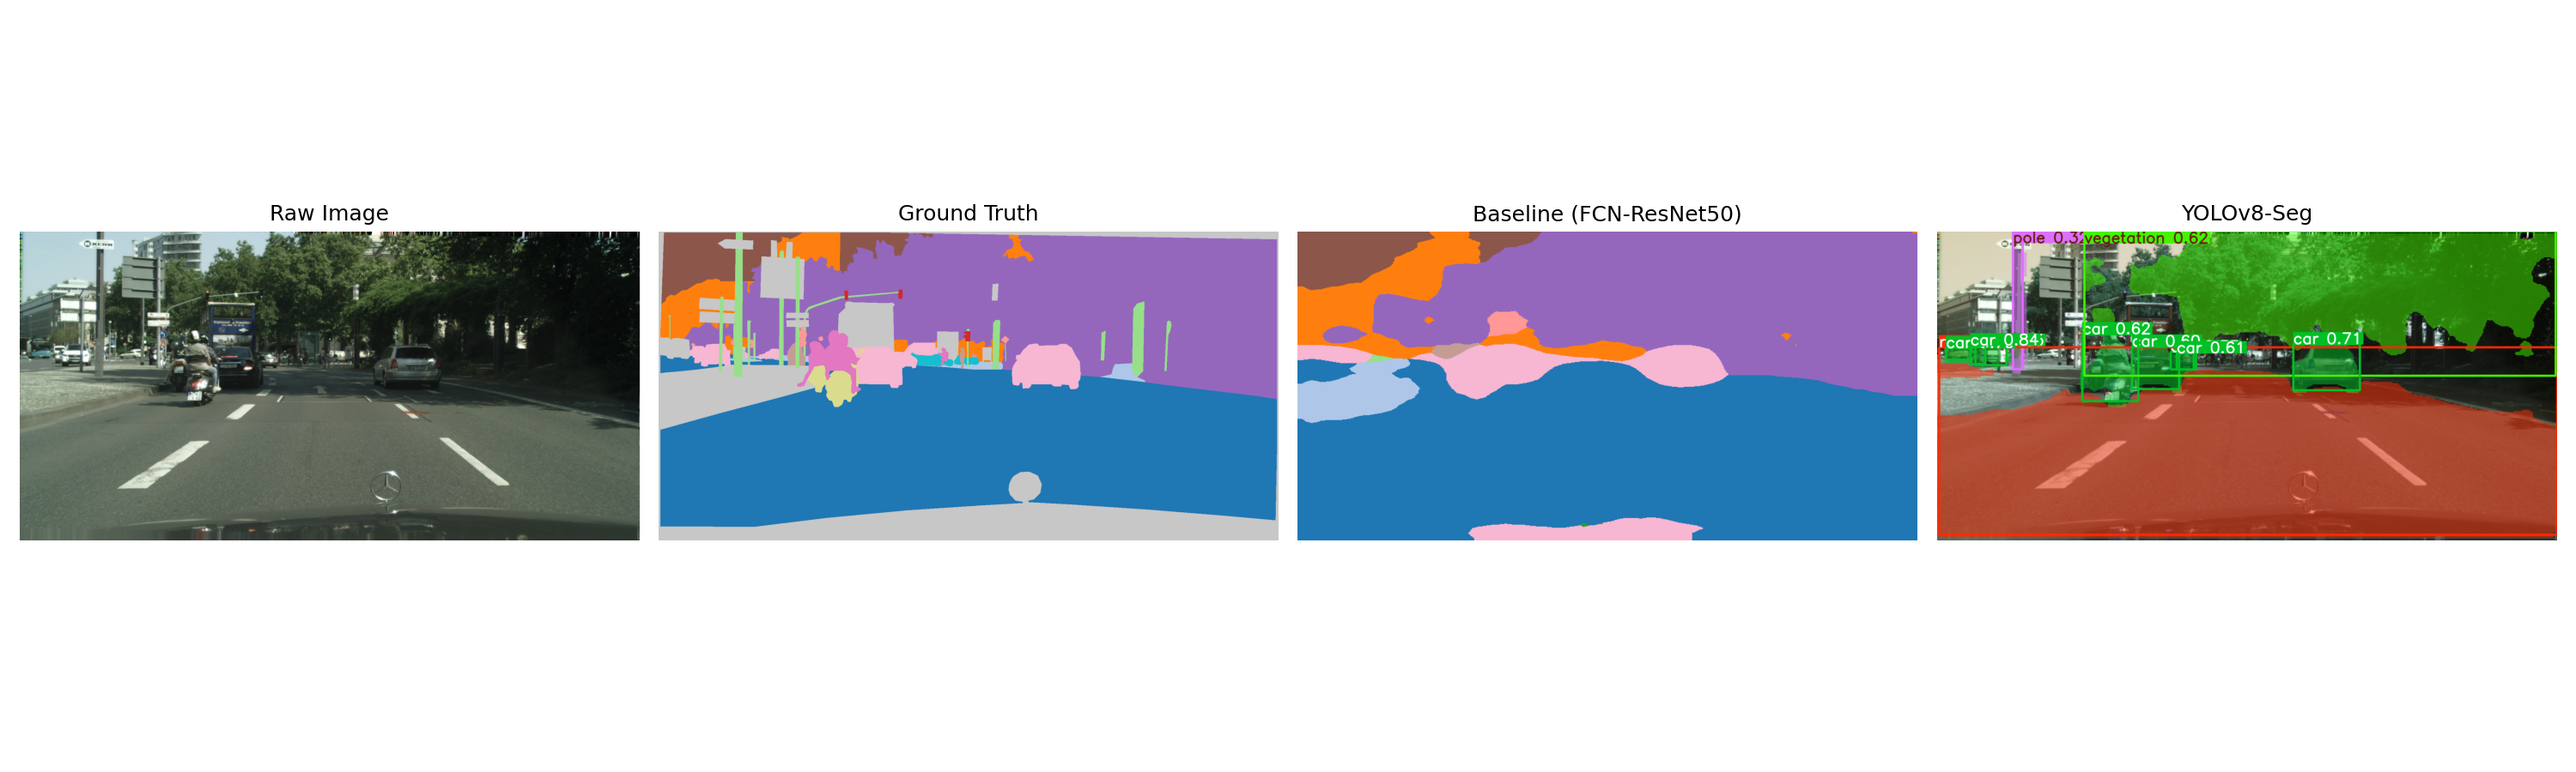
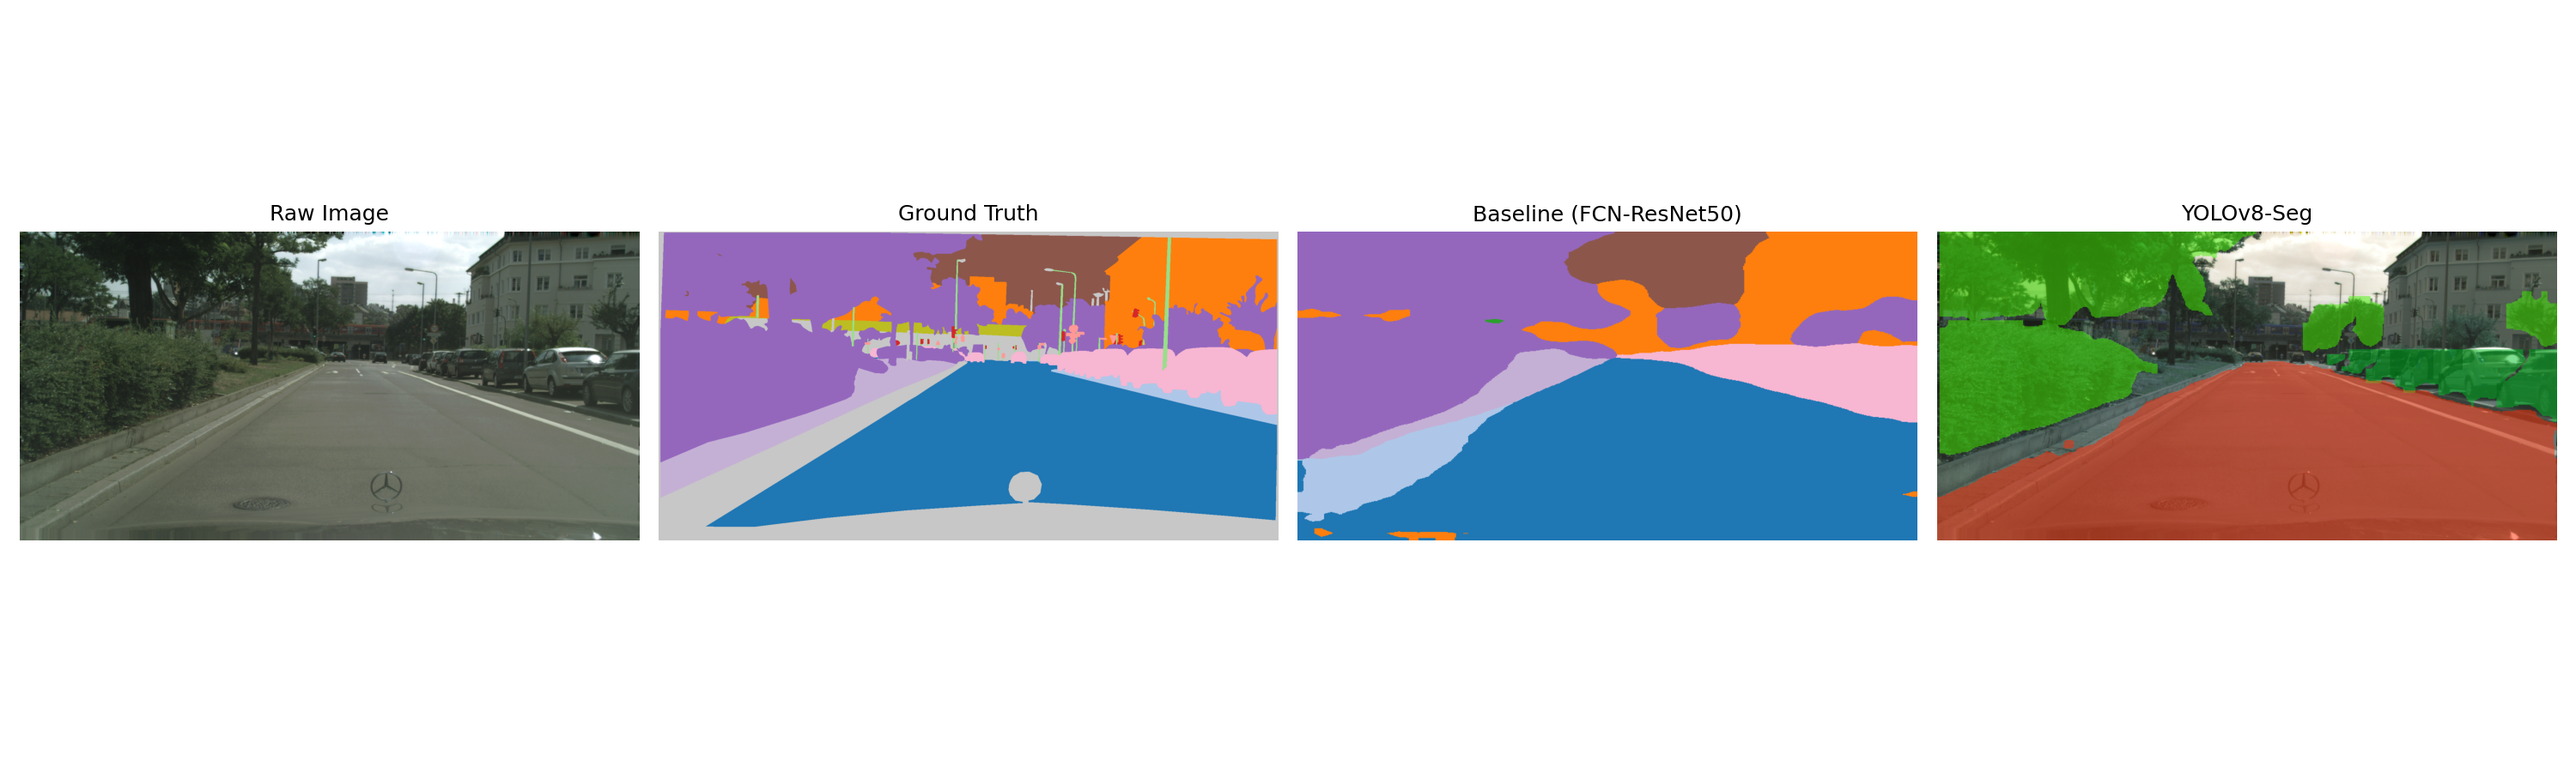
Final polish: Cleaned directory and fixed YOLO mask visualization

diff --git a/src/visual_grid.py b/src/visual_grid.py
@@ -35,8 +35,8 @@ def predict_baseline(model, img_pil, size=(256, 512), device='cpu'):
 def predict_yolo(weights_path: Path, img_path: Path):
     model = YOLO(str(weights_path))
     res = model.predict(source=str(img_path), imgsz=512, device=0, verbose=False)
-    # use result.plot() to get colorized overlay
-    vis = res[0].plot()
+    # use result.plot() to get colorized overlay (disable boxes for fair comparison)
+    vis = res[0].plot(boxes=False)
     return vis
 
 

diff --git a/README.md b/README.md
@@ -399,4 +399,4 @@ Fix: `src/yolo_latency_fixed.py` calls `model.model(tensor)` (raw backbone, no N
 
 ## Status
 
-Phase 1 complete. Phase 2 baseline verification complete. Phase 3 sanity training complete (latency fix applied and verified). Phase 4 complete (visual comparison and metric charts generated). Phase 5 (Git wrap-up) pending.
+Phase 1 complete. Phase 2 baseline verification complete. Phase 3 sanity training complete (latency fix applied and verified). Phase 4 complete (visual comparison and metric charts generated). Phase 5 complete (workspace cleaned and visualization polished).
